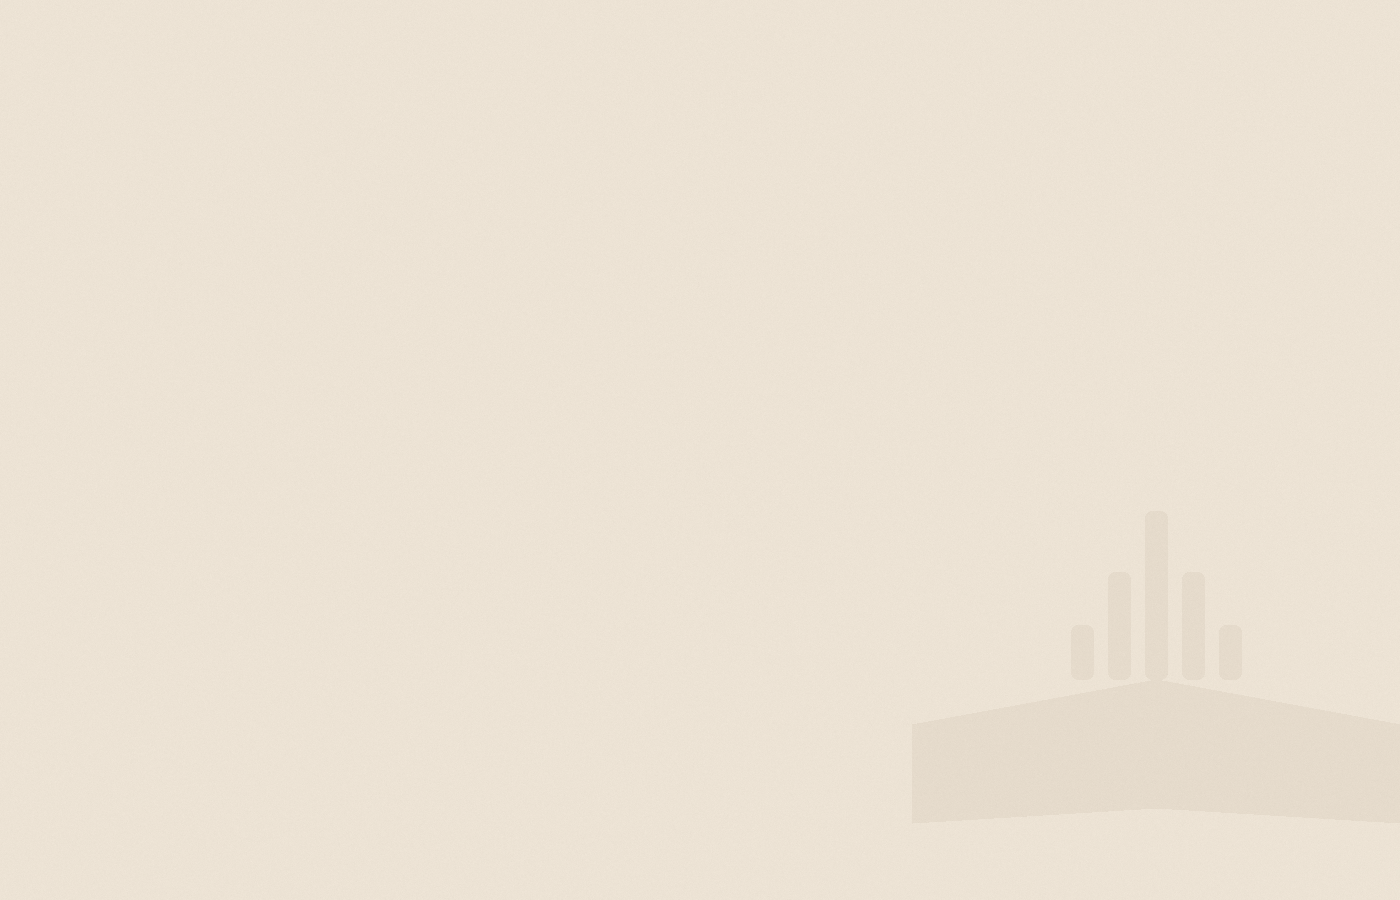
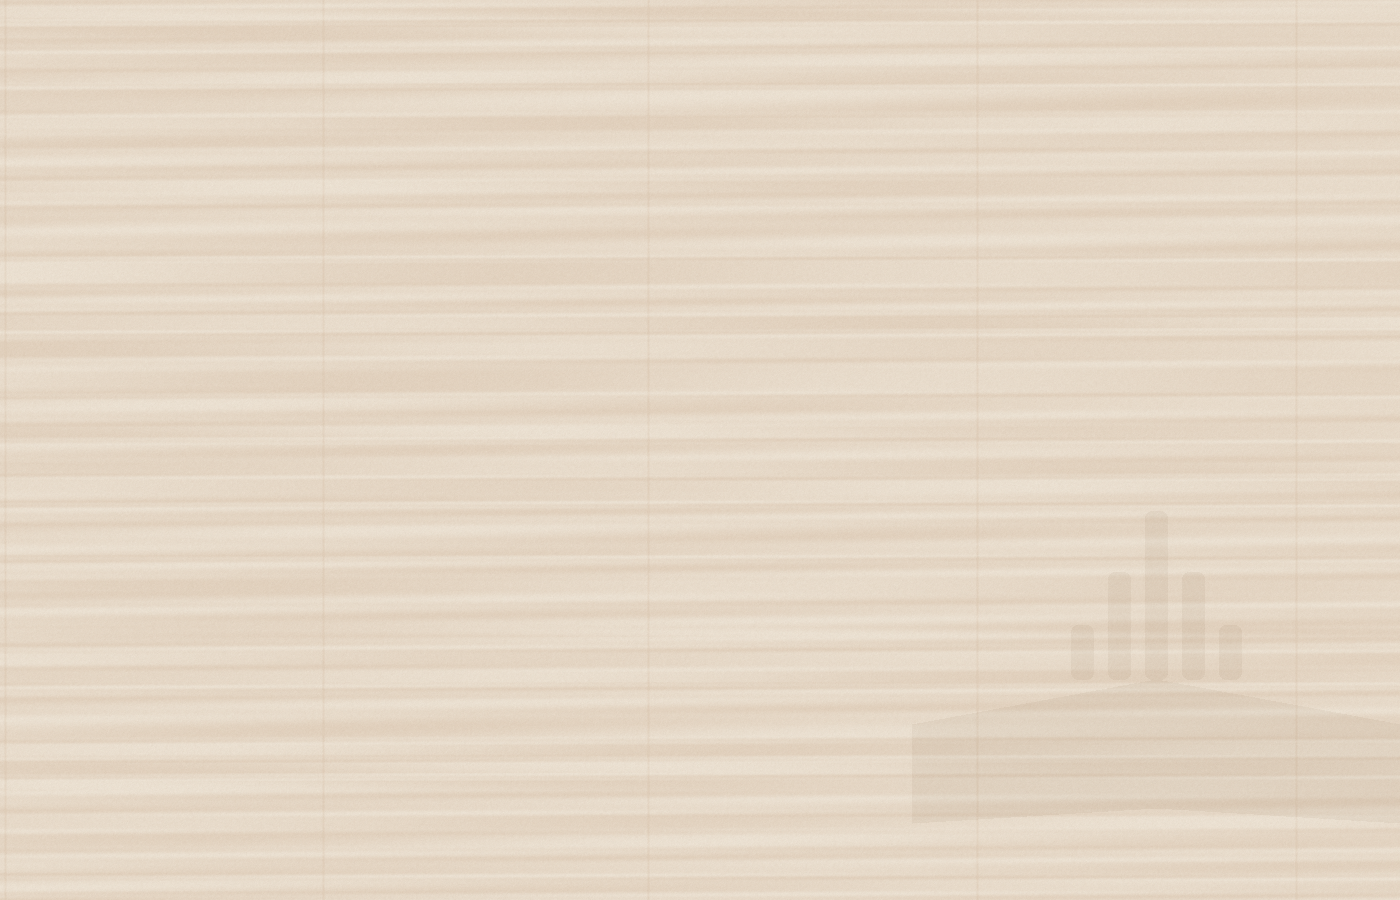
Give the app and website a subtle wood-grain background
Café theme, taken literally: a procedural wood-grain texture (scripts/
generate_wood_backgrounds.py, numpy-based, built only from colors already in
the app's own palette -- no new hues introduced) replaces the flat paper-noise
texture behind the app's panels and the website's page background alike.

The app's existing decorative background layer already isolates this from
real content (panels paint their own themed background over it), and its
logo watermark is preserved exactly -- extracted as a per-pixel delta from
the original image and reapplied unchanged on top of the new texture.

diff --git a/docs/index.html b/docs/index.html
@@ -29,6 +29,7 @@
     --bg: var(--cream);
     --fg: var(--ink);
     --fg-muted: var(--ink-soft);
+    --wood: url("assets/wood-light.webp");
   }
   @media (prefers-color-scheme: dark) {
     :root:not([data-theme="light"]) {
@@ -41,6 +42,7 @@
       --border: #4a3a2a;
       --cream-soft: #2c2119;
       --shadow: 0 1px 2px rgba(0,0,0,0.3), 0 8px 24px rgba(0,0,0,0.35);
+      --wood: url("assets/wood-dark.webp");
     }
   }
   :root[data-theme="dark"] {
@@ -53,13 +55,14 @@
     --border: #4a3a2a;
     --cream-soft: #2c2119;
     --shadow: 0 1px 2px rgba(0,0,0,0.3), 0 8px 24px rgba(0,0,0,0.35);
+    --wood: url("assets/wood-dark.webp");
   }
 
   * { box-sizing: border-box; }
   html { -webkit-text-size-adjust: 100%; }
   body {
     margin: 0;
-    background: var(--bg);
+    background: var(--bg) var(--wood) repeat;
     color: var(--fg);
     font-family: 'Inter', system-ui, -apple-system, "Segoe UI", sans-serif;
     line-height: 1.6;
@@ -172,7 +175,7 @@
 
   /* ---------- Get it ---------- */
   section.get {
-    background: var(--paper); border-top: 1px solid var(--border); border-bottom: 1px solid var(--border);
+    background: var(--paper) var(--wood) repeat; border-top: 1px solid var(--border); border-bottom: 1px solid var(--border);
     padding-block: 60px; text-align: center;
   }
   section.get h2 { font-size: 2rem; margin-bottom: 10px; }

diff --git a/scripts/generate_wood_backgrounds.py b/scripts/generate_wood_backgrounds.py
@@ -1,0 +1,114 @@
+"""Regenerates the app's decorative background images (assets/background-light.png,
+assets/background-dark.png) and the website's background textures (docs/assets/
+wood-*.webp) with a subtle wood-grain look -- built entirely from colors already in the
+app's own palette (main.py's ttk.Theme() call), no new hues introduced.
+
+The app's two background images aren't flat: each already carries a faint logo
+watermark in the bottom-right, baked in as a per-pixel tint over the flat base color.
+This script extracts that tint as a delta (original_pixel - base_color) and reapplies
+it unchanged on top of the new wood-grain texture, so the watermark's position and
+shape are untouched -- only the texture underneath it changes.
+
+Run manually when the theme palette changes:
+    poetry run python scripts/generate_wood_backgrounds.py
+"""
+
+import os
+
+import numpy as np
+from PIL import Image
+
+ASSETS_DIR = os.path.join(os.path.dirname(__file__), "..", "assets")
+DOCS_ASSETS_DIR = os.path.join(os.path.dirname(__file__), "..", "docs", "assets")
+
+# Same coffeehouse palette as main.py's ttk.Theme() call -- no colors outside this set.
+CREAM = (242, 232, 217)       # #f2e8d9
+DARK_ROAST = (36, 27, 20)     # #241b14
+ESPRESSO = (111, 78, 55)      # #6f4e37
+CARAMEL = (169, 113, 66)      # #a97142
+
+
+def _value_noise_1d(length, rng, octaves):
+    """Smooth 1D noise via linear interpolation between random control points at a
+    few scales -- irregular, unlike a clean sine wave, which is what makes the result
+    below read as organic wood grain instead of a mechanical ripple pattern."""
+    result = np.zeros(length)
+    for scale, weight in octaves:
+        n_points = max(2, length // scale)
+        control = rng.uniform(-1, 1, n_points)
+        xp = np.linspace(0, length - 1, n_points)
+        result += weight * np.interp(np.arange(length), xp, control)
+    return result
+
+
+def _wood_grain(size, base, grain_color, seed):
+    """A wood-grain field: irregular, mostly-horizontal streaks (real wood grain runs
+    along the board, not in a mechanical diagonal ripple) built from smooth 1D noise
+    per row plus fine fibrous noise, blended between `base` and `grain_color` -- both
+    already palette colors, so this only ever mixes tones that already exist in the
+    app, never introduces a new one."""
+    width, height = size
+    rng = np.random.default_rng(seed)
+
+    # Each row's grain "centerline" wanders slowly and irregularly along its length --
+    # this per-row horizontal profile is what gives long streaks their natural waviness.
+    row_offsets = _value_noise_1d(height, rng, octaves=[(9, 0.6), (40, 0.9), (140, 0.5)])
+
+    y = np.arange(height).reshape(-1, 1).astype(np.float64)
+    x = np.arange(width).reshape(1, -1).astype(np.float64)
+    wander = row_offsets.reshape(-1, 1) * 14  # px of horizontal drift per row
+
+    # Streak bands: mostly a function of y (+ a little x, for very gentle diagonal
+    # bias real wood boards often have), with irregular spacing from the row wander.
+    rings = np.sin((y + wander) / 5.5 + x * 0.006)
+    rings += 0.5 * np.sin((y + wander) / 2.1 + x * 0.003 + 2.3)
+    rings = (rings - rings.min()) / (rings.max() - rings.min())  # 0..1
+
+    # Fine fibrous noise, smoothed slightly by averaging a couple of offset copies.
+    noise = rng.random((height, width))
+    noise = (noise + np.roll(noise, 1, axis=0) + np.roll(noise, 1, axis=1)) / 3.0
+
+    grain = np.clip(0.75 * rings + 0.25 * noise, 0, 1)
+
+    # Plank seams: a few faint vertical lines suggesting separate boards in a table.
+    seam_mask = np.zeros((1, width))
+    seam_spacing = width / 4.3
+    for i in range(5):
+        center = int(seam_spacing * i + rng.uniform(-10, 10))
+        for offset in (-1, 0, 1):
+            col = center + offset
+            if 0 <= col < width:
+                seam_mask[0, col] = 0.35 * (1 - abs(offset) * 0.5)
+    grain = np.clip(grain + seam_mask, 0, 1)
+
+    # Blend base -> grain_color using `grain` as the mix factor, kept subtle (max ~18%
+    # toward grain_color) so it reads as texture, not a color change.
+    strength = 0.18
+    out = np.empty((height, width, 3), dtype=np.float64)
+    for c in range(3):
+        out[:, :, c] = base[c] + (grain_color[c] - base[c]) * grain * strength
+    return out
+
+
+def _apply_to_existing(filename, base_color, grain_color, seed):
+    path = os.path.join(ASSETS_DIR, filename)
+    original = np.asarray(Image.open(path).convert("RGB"), dtype=np.float64)
+    base_arr = np.array(base_color, dtype=np.float64)
+    delta = original - base_arr  # captures the existing watermark logo tint
+
+    wood = _wood_grain((original.shape[1], original.shape[0]), base_color, grain_color, seed)
+    result = np.clip(wood + delta, 0, 255).astype(np.uint8)
+    Image.fromarray(result, "RGB").save(path)
+
+
+def _make_site_tile(filename, base_color, grain_color, seed, size=512):
+    wood = np.clip(_wood_grain((size, size), base_color, grain_color, seed), 0, 255).astype(np.uint8)
+    Image.fromarray(wood, "RGB").save(os.path.join(DOCS_ASSETS_DIR, filename), "WEBP", quality=88, method=6)
+
+
+if __name__ == "__main__":
+    _apply_to_existing("background-light.png", CREAM, CARAMEL, seed=1)
+    _apply_to_existing("background-dark.png", DARK_ROAST, ESPRESSO, seed=2)
+    _make_site_tile("wood-light.webp", CREAM, CARAMEL, seed=1)
+    _make_site_tile("wood-dark.webp", DARK_ROAST, ESPRESSO, seed=2)
+    print("Wrote app backgrounds and docs/assets/wood-{light,dark}.webp")
